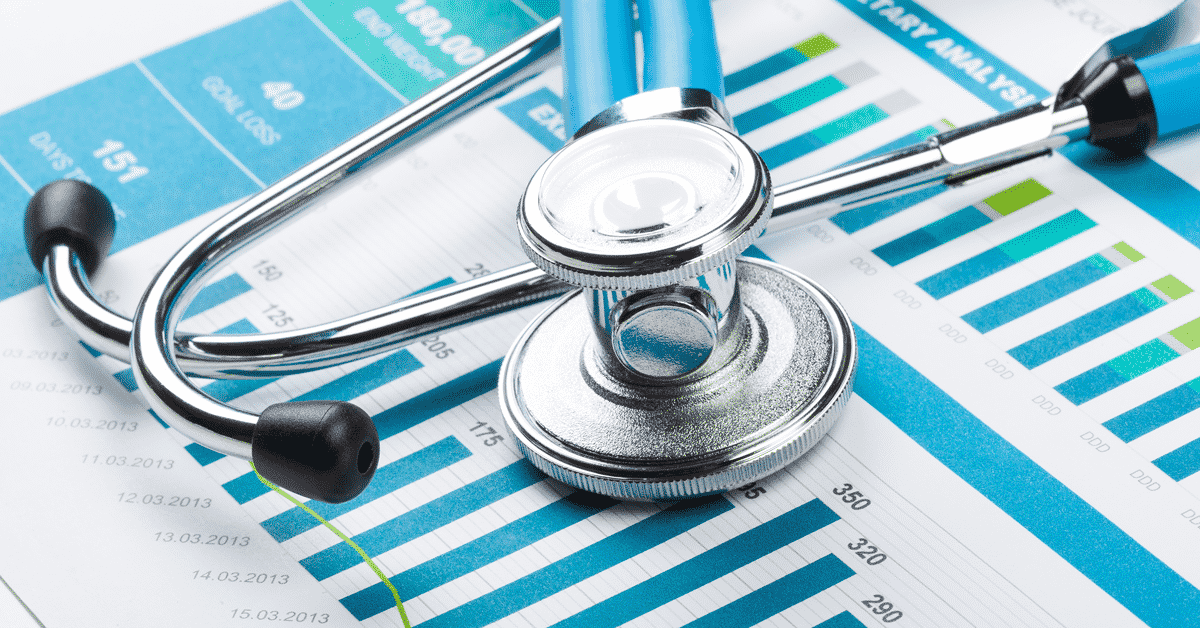
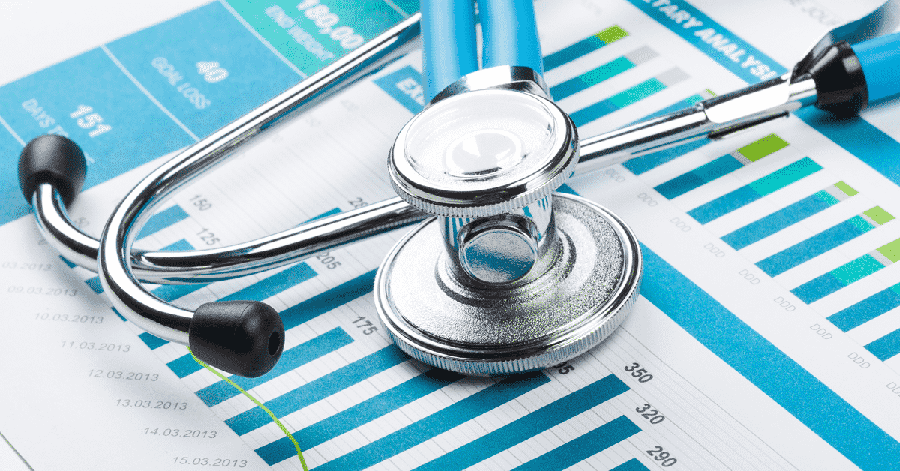
Correzione 04/09/2026: Confronto a 3 voci, immagine su ogni articolo

diff --git a/rassegne/2026-09-04.html b/rassegne/2026-09-04.html
@@ -1523,6 +1523,8 @@
     <a class="badge" href="https://www.borderline24.com" target="_blank" rel="noopener noreferrer">Borderline24</a>
     <a class="badge" href="https://roma.lamilano.it" target="_blank" rel="noopener noreferrer">La Milano</a>
     <a class="badge" href="https://www.veronaoggi.it" target="_blank" rel="noopener noreferrer">VeronaOggi</a>
+    <a class="badge" href="https://www.airwaysmag.com" target="_blank" rel="noopener noreferrer">Airways Magazine</a>
+    <a class="badge" href="https://www.easa.europa.eu" target="_blank" rel="noopener noreferrer">EASA</a>
     <a class="badge" href="https://www.investiremag.it" target="_blank" rel="noopener noreferrer">Investire Oggi</a>
     <a class="badge" href="https://www.idealista.it" target="_blank" rel="noopener noreferrer">Idealista News</a>
     <a class="badge" href="https://blogs.nvidia.com" target="_blank" rel="noopener noreferrer">Nvidia Newsroom</a>
@@ -1646,7 +1648,7 @@
       <div class="sidebar-kicker">Il Contribuente in cifre</div>
       <div class="sidebar-stats">
         <div>
-          <div class="sidebar-stat-value">43</div>
+          <div class="sidebar-stat-value">45</div>
           <div class="sidebar-stat-label">Testate diverse citate solo oggi</div>
         </div>
       </div>
@@ -1674,7 +1676,7 @@
   </div>
 
   <div class="verify-badge">
-    <div class="verify-badge-inner">&#10003; Oggi abbiamo confrontato <strong>60 fonti</strong> su <strong>43 testate</strong> diverse</div>
+    <div class="verify-badge-inner">&#10003; Oggi abbiamo confrontato <strong>62 fonti</strong> su <strong>45 testate</strong> diverse</div>
   </div>
 
   <div class="quote-day">
@@ -1764,6 +1766,18 @@
           <span class="source">Fonte: <a href="https://www.ansa.it/sito/notizie/topnews/2026/09/03/putin-minaccia-di-kiev-ai-voli-civili-complica-possibilita-di-negoziati-di-pace_036c8330-4578-4d12-a105-fdded249f1ab.html" target="_blank" rel="noopener noreferrer">ANSA (Interfax)</a></span>
         </div>
       </div>
+      <div class="duel-grid" style="grid-template-columns:1fr; border-top:1px solid var(--rule);">
+        <div class="duel-side third">
+          <div class="article-image"><img src="../immagini/guerra/brendan-beale-5ehZeIN3n2s-unsplash.jpg" alt="Militare con mascherina in tenuta da sicurezza" loading="lazy"></div>
+          <span class="duel-tag">Voce indipendente — Airways Magazine, EASA</span><div class="duel-headline">Non solo parole: le compagnie aeree cancellano già i voli su Mosca</div>
+          <p class="body">Secondo la rivista specializzata Airways Magazine, l'avvertimento di Zelensky ha già prodotto effetti concreti prima ancora dello scontro verbale con Putin: nella notte tra il 1&deg; e il 2 settembre la turca Pegasus Airlines ha cancellato 12 voli da/per l'aeroporto moscovita di Vnukovo, Turkish Airlines altri quattro, e un volo da Antalya è stato dirottato su Istanbul. Kiev ha inoltre notificato formalmente all'ICAO, l'agenzia Onu per l'aviazione civile, che lo spazio russo è a rischio per il traffico civile.</p>
+          <div class="body-extra">
+            <p class="body">La cautela precede peraltro la dichiarazione ucraina: dal gennaio 2025 l'Easa, l'agenzia europea per la sicurezza aerea, raccomanda di evitare lo spazio russo a ovest del 60&deg; meridiano est per i rischi legati alla guerra. Gli episodi di inizio settembre — 130 droni ucraini abbattuti secondo Mosca tra l'1 e il 2 settembre, con stop temporanei a Vnukovo e Domodedovo — mostrano che il rischio operativo esiste indipendentemente dalle accuse incrociate di "terrorismo di Stato": per vettori e assicuratori contano i dati aeroportuali, non la cornice politica dello scontro tra Kiev e Mosca.</p>
+          </div>
+          <button type="button" class="read-more-btn" onclick="toggleReadMore(this)">Continua a leggere <span class="rm-arrow">&#8595;</span></button>
+          <span class="source">Fonte: <a href="https://www.airwaysmag.com/new-post/pegasus-moscow-flights-russian-airspace-warning" target="_blank" rel="noopener noreferrer">Airways Magazine</a>, <a href="https://www.easa.europa.eu/en/newsroom-and-events/news/eu-aviation-safety-agency-updates-safety-guidance-russian-airspace" target="_blank" rel="noopener noreferrer">EASA</a></span>
+        </div>
+      </div>
     </div>
   </div>
 
@@ -1850,6 +1864,7 @@
         <span class="source">Fonte: <a href="https://www.ansa.it/sito/notizie/mondo/2026/09/02/tajani-possibili-tentativi-dinfluenze-russe-sul-voto-in-italia_b5b916b3-ef32-4b43-8a37-f308d89e2059.html" target="_blank" rel="noopener noreferrer">ANSA</a></span>
       </div>
       <div class="article">
+        <div class="article-image"><img src="../immagini/italia/dmitry-voronov-qjNj5F03dxA-unsplash.jpg" alt="Il Colosseo illuminato di sera, simbolo di Roma" loading="lazy"></div>
         <h3>Inflazione al 3,3% ad agosto, massimo in tre anni: associazioni divise sulla lettura dei dati</h3>
         <p class="body">L'Istat certifica che l'inflazione italiana è salita al 3,3% su base annua ad agosto 2026, dal 2,9% di luglio: il valore più alto degli ultimi tre anni. L'istituto attribuisce l'accelerazione soprattutto ai prezzi dell'energia, passati da +11,6% a +17,0%, mentre il paniere dei beni ad alta frequenza d'acquisto sale al 4,3% dal 3,4% precedente. Il carrello della spesa resta invece stabile, con un incremento dell'1,0%.</p>
         <div class="body-extra">
@@ -2019,6 +2034,7 @@
         <span class="source">Fonte: <a href="https://www.themoscowtimes.com/2026/09/03/russia-can-manage-its-growing-deficit-putin-says-a93630" target="_blank" rel="noopener noreferrer">The Moscow Times</a>, <a href="https://www.brasildefato.com.br/2026/09/03/putin-apresenta-estrategia-economica-da-russia-e-projeta-recorde-comercial-com-a-china/" target="_blank" rel="noopener noreferrer">Brasil de Fato</a></span>
       </div>
       <div class="article">
+        <div class="article-image"><img src="../immagini/mondo/bent-van-aeken-Ztx1R03BlYU-unsplash.jpg" alt="Vista panoramica a effetto 'little planet' su una città costiera" loading="lazy"></div>
         <h3>Repubblicani in ansia: a 60 giorni dal voto saltano la convention di Trump</h3>
         <p class="body">A meno di sessanta giorni dalle elezioni di midterm del 3 novembre, diversi deputati repubblicani eletti in collegi in bilico hanno annunciato che salteranno la convention di partito organizzata da Trump a Dallas il 9 e 10 settembre. Il gradimento del presidente si attesta al 33% secondo un sondaggio Reuters/Ipsos di metà agosto, e diversi parlamentari preferiscono restare nei collegi a fare campagna.</p>
         <div class="body-extra">
@@ -2065,6 +2081,7 @@
         <span class="source">Fonte: <a href="https://www.ansa.it/sito/notizie/topnews/2026/09/03/borsa-milano-tiene-025-corre-lottomatica-soffre-cucinelli_90ea0224-2b53-4f6d-b60e-3eae5d4606e9.html" target="_blank" rel="noopener noreferrer">ANSA</a></span>
       </div>
       <div class="article">
+        <div class="article-image"><img src="../immagini/finanza/brittany-bendabout-MJn7BQNeLnw-unsplash.jpg" alt="Mano che tiene banconote da un dollaro" loading="lazy"></div>
         <h3>Lottomatica e Cirsa si fondono: nasce un colosso da 2 miliardi di Ebitda</h3>
         <p class="body">Lottomatica e Cirsa hanno raggiunto, il 2 settembre, un accordo per una fusione interamente in azioni che darà vita al secondo operatore quotato al mondo nel gioco e nelle scommesse, con un Ebitda pro forma di circa 2 miliardi di euro. Cirsa sarà incorporata in Lottomatica con un rapporto di cambio di 0,668 nuove azioni Lottomatica per ogni titolo Cirsa posseduto. La nuova società sarà quotata sia a Milano sia a Madrid.</p>
         <div class="body-extra">
@@ -2074,6 +2091,7 @@
         <span class="source">Fonte: <a href="https://www.ansa.it/sito/notizie/economia/2026/09/02/lottomatica-raggiunge-accordo-fusione-con-la-spagnola-cirsa_2686dc04-e959-455f-ba80-a74f41c2007f.html" target="_blank" rel="noopener noreferrer">ANSA</a></span>
       </div>
       <div class="article">
+        <div class="article-image"><img src="../immagini/finanza/eduardo-rincon-WYtZz8uSyE4-unsplash.jpg" alt="Schermo con grafico di mercato azionario" loading="lazy"></div>
         <h3>Petrolio stabile sopra i 95 dollari, il gas resta sotto i 73 euro ad Amsterdam</h3>
         <p class="body">Il Brent tratta il 4 settembre a 95,13 dollari al barile, in calo dello 0,52%. Sul mercato del gas, i future TTF di Amsterdam per consegna a ottobre hanno ceduto l'1,1% nella seduta del 3 settembre, scendendo a 72,82 euro al MWh e confermandosi sotto quota 73 euro dopo i massimi sopra i 74 euro dei giorni precedenti.</p>
         <div class="body-extra">
@@ -2108,6 +2126,7 @@
         <span class="source">Fonte: <a href="https://www.eurekalert.org/news-releases/1142162" target="_blank" rel="noopener noreferrer">EurekAlert! / Mass General Brigham</a></span>
       </div>
       <div class="article">
+        <div class="article-image"><img src="../immagini/salute/img_approfondimento_Sanita.webp" alt="Medici con camice e stetoscopio in un corridoio d'ospedale" loading="lazy"></div>
         <h3>Sindrome del cuore infranto o infarto? Un nuovo punteggio le distingue senza cateterismo</h3>
         <p class="body">Un gruppo di ricerca guidato dall'Università di Zurigo ha sviluppato un punteggio diagnostico, chiamato BioTAK, capace di distinguere la sindrome takotsubo (il cosiddetto "cuore infranto") da un vero infarto senza ricorrere alla coronarografia invasiva. Lo studio, pubblicato sull'European Heart Journal e riportato il 2 settembre 2026, ha analizzato dati di oltre 3.600 pazienti per costruire il modello, poi validato su un gruppo indipendente di quasi 1.800 pazienti, classificando correttamente quasi il 90% dei partecipanti.</p>
         <div class="body-extra">
@@ -2117,6 +2136,7 @@
         <span class="source">Fonte: <a href="https://www.sciencedaily.com/releases/2026/09/260901070518.htm" target="_blank" rel="noopener noreferrer">ScienceDaily / Università di Zurigo</a></span>
       </div>
       <div class="article">
+        <div class="article-image"><img src="../immagini/salute/sistema-sanitario-italia-commissione-europea.png" alt="Stetoscopio appoggiato su un grafico di dati" loading="lazy"></div>
         <h3>Più di cinque caffè al giorno associati a minore densità ossea nelle donne anziane, ma senza prova di causalità</h3>
         <p class="body">Uno studio osservazionale della Flinders University, pubblicato sulla rivista Nutrients e ripreso il 2 settembre 2026, ha seguito per dieci anni quasi 10.000 donne australiane over 65. I ricercatori hanno trovato che le donne che bevevano più di cinque tazze di caffè al giorno presentavano una densità ossea inferiore rispetto alle altre, mentre chi beveva tè mostrava valori leggermente più alti. Un consumo moderato, tra due e tre tazze al giorno, non è risultato associato a effetti negativi misurabili.</p>
         <div class="body-extra">
@@ -2162,6 +2182,7 @@
         <span class="source">Fonte: <a href="https://www.adexchanger.com/antitrust/google-wont-have-to-break-up-its-ad-tech-business-judge-brinkema-rules/" target="_blank" rel="noopener noreferrer">AdExchanger</a> e <a href="https://www.smartphonology.it/notizie-tech-3-settembre-meta-accelera-google-evita-lo-scorporo" target="_blank" rel="noopener noreferrer">Smartphonology</a></span>
       </div>
       <div class="article">
+        <div class="article-image"><img src="../immagini/tecnologia/andrew-m--KWZtA2JHW0-unsplash.jpg" alt="Smartphone con app in primo piano" loading="lazy"></div>
         <h3>Tesla svela il Cybercab: robotaxi senza volante a 30mila dollari</h3>
         <p class="body">Tesla ha presentato ufficialmente il 3 settembre ad Austin, in Texas, il Cybercab, il primo veicolo progettato specificamente per il proprio servizio di robotaxi. Il mezzo, a due posti con portiere ad ali di gabbiano, non ha volante né pedali e si affida interamente al sistema di guida autonoma FSD. Elon Musk ha indicato un prezzo obiettivo di circa 30mila dollari, nettamente inferiore a quello dei veicoli usati dal concorrente Waymo, stimati tra 70mila e 150mila dollari.</p>
         <div class="body-extra">
@@ -2228,6 +2249,7 @@
         <span class="source">Fonte: <a href="https://www.theregister.com/ai-and-ml/2026/09/02/with-gemini-38-flash-google-reminds-everyone-its-still-in-the-race/5294049" target="_blank" rel="noopener noreferrer">The Register</a> e <a href="https://www.bloomberg.com/news/articles/2026-09-02/meta-releases-more-powerful-ai-model-edging-closer-to-rivals" target="_blank" rel="noopener noreferrer">Bloomberg</a></span>
       </div>
       <div class="article">
+        <div class="article-image"><img src="../immagini/intelligenza artificiale/8machine-_-LX8e3kgdgAs-unsplash.jpg" alt="Testa robotica incrinata con circuiti luminosi" loading="lazy"></div>
         <h3>Apple accusa un ex ingegnere di aver portato segreti industriali a OpenAI</h3>
         <p class="body">Apple ha rafforzato la causa intentata a luglio contro OpenAI, presentando nuove prove forensi contro Chang Liu, ingegnere che ha lasciato Cupertino per il laboratorio di intelligenza artificiale a gennaio 2026. Secondo la documentazione depositata da Apple, Liu avrebbe scaricato uno schema circuitale riservato e lo avrebbe eseguito all'interno di una simulazione mentre già lavorava per OpenAI, un utilizzo emerso grazie alla sincronizzazione via iCloud tra il suo vecchio Mac mini aziendale e il nuovo MacBook.</p>
         <div class="body-extra">

diff --git a/index.html b/index.html
@@ -1523,6 +1523,8 @@
     <a class="badge" href="https://www.borderline24.com" target="_blank" rel="noopener noreferrer">Borderline24</a>
     <a class="badge" href="https://roma.lamilano.it" target="_blank" rel="noopener noreferrer">La Milano</a>
     <a class="badge" href="https://www.veronaoggi.it" target="_blank" rel="noopener noreferrer">VeronaOggi</a>
+    <a class="badge" href="https://www.airwaysmag.com" target="_blank" rel="noopener noreferrer">Airways Magazine</a>
+    <a class="badge" href="https://www.easa.europa.eu" target="_blank" rel="noopener noreferrer">EASA</a>
     <a class="badge" href="https://www.investiremag.it" target="_blank" rel="noopener noreferrer">Investire Oggi</a>
     <a class="badge" href="https://www.idealista.it" target="_blank" rel="noopener noreferrer">Idealista News</a>
     <a class="badge" href="https://blogs.nvidia.com" target="_blank" rel="noopener noreferrer">Nvidia Newsroom</a>
@@ -1646,7 +1648,7 @@
       <div class="sidebar-kicker">Il Contribuente in cifre</div>
       <div class="sidebar-stats">
         <div>
-          <div class="sidebar-stat-value">43</div>
+          <div class="sidebar-stat-value">45</div>
           <div class="sidebar-stat-label">Testate diverse citate solo oggi</div>
         </div>
       </div>
@@ -1674,7 +1676,7 @@
   </div>
 
   <div class="verify-badge">
-    <div class="verify-badge-inner">&#10003; Oggi abbiamo confrontato <strong>60 fonti</strong> su <strong>43 testate</strong> diverse</div>
+    <div class="verify-badge-inner">&#10003; Oggi abbiamo confrontato <strong>62 fonti</strong> su <strong>45 testate</strong> diverse</div>
   </div>
 
   <div class="quote-day">
@@ -1764,6 +1766,18 @@
           <span class="source">Fonte: <a href="https://www.ansa.it/sito/notizie/topnews/2026/09/03/putin-minaccia-di-kiev-ai-voli-civili-complica-possibilita-di-negoziati-di-pace_036c8330-4578-4d12-a105-fdded249f1ab.html" target="_blank" rel="noopener noreferrer">ANSA (Interfax)</a></span>
         </div>
       </div>
+      <div class="duel-grid" style="grid-template-columns:1fr; border-top:1px solid var(--rule);">
+        <div class="duel-side third">
+          <div class="article-image"><img src="immagini/guerra/brendan-beale-5ehZeIN3n2s-unsplash.jpg" alt="Militare con mascherina in tenuta da sicurezza" loading="lazy"></div>
+          <span class="duel-tag">Voce indipendente — Airways Magazine, EASA</span><div class="duel-headline">Non solo parole: le compagnie aeree cancellano già i voli su Mosca</div>
+          <p class="body">Secondo la rivista specializzata Airways Magazine, l'avvertimento di Zelensky ha già prodotto effetti concreti prima ancora dello scontro verbale con Putin: nella notte tra il 1&deg; e il 2 settembre la turca Pegasus Airlines ha cancellato 12 voli da/per l'aeroporto moscovita di Vnukovo, Turkish Airlines altri quattro, e un volo da Antalya è stato dirottato su Istanbul. Kiev ha inoltre notificato formalmente all'ICAO, l'agenzia Onu per l'aviazione civile, che lo spazio russo è a rischio per il traffico civile.</p>
+          <div class="body-extra">
+            <p class="body">La cautela precede peraltro la dichiarazione ucraina: dal gennaio 2025 l'Easa, l'agenzia europea per la sicurezza aerea, raccomanda di evitare lo spazio russo a ovest del 60&deg; meridiano est per i rischi legati alla guerra. Gli episodi di inizio settembre — 130 droni ucraini abbattuti secondo Mosca tra l'1 e il 2 settembre, con stop temporanei a Vnukovo e Domodedovo — mostrano che il rischio operativo esiste indipendentemente dalle accuse incrociate di "terrorismo di Stato": per vettori e assicuratori contano i dati aeroportuali, non la cornice politica dello scontro tra Kiev e Mosca.</p>
+          </div>
+          <button type="button" class="read-more-btn" onclick="toggleReadMore(this)">Continua a leggere <span class="rm-arrow">&#8595;</span></button>
+          <span class="source">Fonte: <a href="https://www.airwaysmag.com/new-post/pegasus-moscow-flights-russian-airspace-warning" target="_blank" rel="noopener noreferrer">Airways Magazine</a>, <a href="https://www.easa.europa.eu/en/newsroom-and-events/news/eu-aviation-safety-agency-updates-safety-guidance-russian-airspace" target="_blank" rel="noopener noreferrer">EASA</a></span>
+        </div>
+      </div>
     </div>
   </div>
 
@@ -1850,6 +1864,7 @@
         <span class="source">Fonte: <a href="https://www.ansa.it/sito/notizie/mondo/2026/09/02/tajani-possibili-tentativi-dinfluenze-russe-sul-voto-in-italia_b5b916b3-ef32-4b43-8a37-f308d89e2059.html" target="_blank" rel="noopener noreferrer">ANSA</a></span>
       </div>
       <div class="article">
+        <div class="article-image"><img src="immagini/italia/dmitry-voronov-qjNj5F03dxA-unsplash.jpg" alt="Il Colosseo illuminato di sera, simbolo di Roma" loading="lazy"></div>
         <h3>Inflazione al 3,3% ad agosto, massimo in tre anni: associazioni divise sulla lettura dei dati</h3>
         <p class="body">L'Istat certifica che l'inflazione italiana è salita al 3,3% su base annua ad agosto 2026, dal 2,9% di luglio: il valore più alto degli ultimi tre anni. L'istituto attribuisce l'accelerazione soprattutto ai prezzi dell'energia, passati da +11,6% a +17,0%, mentre il paniere dei beni ad alta frequenza d'acquisto sale al 4,3% dal 3,4% precedente. Il carrello della spesa resta invece stabile, con un incremento dell'1,0%.</p>
         <div class="body-extra">
@@ -2019,6 +2034,7 @@
         <span class="source">Fonte: <a href="https://www.themoscowtimes.com/2026/09/03/russia-can-manage-its-growing-deficit-putin-says-a93630" target="_blank" rel="noopener noreferrer">The Moscow Times</a>, <a href="https://www.brasildefato.com.br/2026/09/03/putin-apresenta-estrategia-economica-da-russia-e-projeta-recorde-comercial-com-a-china/" target="_blank" rel="noopener noreferrer">Brasil de Fato</a></span>
       </div>
       <div class="article">
+        <div class="article-image"><img src="immagini/mondo/bent-van-aeken-Ztx1R03BlYU-unsplash.jpg" alt="Vista panoramica a effetto 'little planet' su una città costiera" loading="lazy"></div>
         <h3>Repubblicani in ansia: a 60 giorni dal voto saltano la convention di Trump</h3>
         <p class="body">A meno di sessanta giorni dalle elezioni di midterm del 3 novembre, diversi deputati repubblicani eletti in collegi in bilico hanno annunciato che salteranno la convention di partito organizzata da Trump a Dallas il 9 e 10 settembre. Il gradimento del presidente si attesta al 33% secondo un sondaggio Reuters/Ipsos di metà agosto, e diversi parlamentari preferiscono restare nei collegi a fare campagna.</p>
         <div class="body-extra">
@@ -2065,6 +2081,7 @@
         <span class="source">Fonte: <a href="https://www.ansa.it/sito/notizie/topnews/2026/09/03/borsa-milano-tiene-025-corre-lottomatica-soffre-cucinelli_90ea0224-2b53-4f6d-b60e-3eae5d4606e9.html" target="_blank" rel="noopener noreferrer">ANSA</a></span>
       </div>
       <div class="article">
+        <div class="article-image"><img src="immagini/finanza/brittany-bendabout-MJn7BQNeLnw-unsplash.jpg" alt="Mano che tiene banconote da un dollaro" loading="lazy"></div>
         <h3>Lottomatica e Cirsa si fondono: nasce un colosso da 2 miliardi di Ebitda</h3>
         <p class="body">Lottomatica e Cirsa hanno raggiunto, il 2 settembre, un accordo per una fusione interamente in azioni che darà vita al secondo operatore quotato al mondo nel gioco e nelle scommesse, con un Ebitda pro forma di circa 2 miliardi di euro. Cirsa sarà incorporata in Lottomatica con un rapporto di cambio di 0,668 nuove azioni Lottomatica per ogni titolo Cirsa posseduto. La nuova società sarà quotata sia a Milano sia a Madrid.</p>
         <div class="body-extra">
@@ -2074,6 +2091,7 @@
         <span class="source">Fonte: <a href="https://www.ansa.it/sito/notizie/economia/2026/09/02/lottomatica-raggiunge-accordo-fusione-con-la-spagnola-cirsa_2686dc04-e959-455f-ba80-a74f41c2007f.html" target="_blank" rel="noopener noreferrer">ANSA</a></span>
       </div>
       <div class="article">
+        <div class="article-image"><img src="immagini/finanza/eduardo-rincon-WYtZz8uSyE4-unsplash.jpg" alt="Schermo con grafico di mercato azionario" loading="lazy"></div>
         <h3>Petrolio stabile sopra i 95 dollari, il gas resta sotto i 73 euro ad Amsterdam</h3>
         <p class="body">Il Brent tratta il 4 settembre a 95,13 dollari al barile, in calo dello 0,52%. Sul mercato del gas, i future TTF di Amsterdam per consegna a ottobre hanno ceduto l'1,1% nella seduta del 3 settembre, scendendo a 72,82 euro al MWh e confermandosi sotto quota 73 euro dopo i massimi sopra i 74 euro dei giorni precedenti.</p>
         <div class="body-extra">
@@ -2108,6 +2126,7 @@
         <span class="source">Fonte: <a href="https://www.eurekalert.org/news-releases/1142162" target="_blank" rel="noopener noreferrer">EurekAlert! / Mass General Brigham</a></span>
       </div>
       <div class="article">
+        <div class="article-image"><img src="immagini/salute/img_approfondimento_Sanita.webp" alt="Medici con camice e stetoscopio in un corridoio d'ospedale" loading="lazy"></div>
         <h3>Sindrome del cuore infranto o infarto? Un nuovo punteggio le distingue senza cateterismo</h3>
         <p class="body">Un gruppo di ricerca guidato dall'Università di Zurigo ha sviluppato un punteggio diagnostico, chiamato BioTAK, capace di distinguere la sindrome takotsubo (il cosiddetto "cuore infranto") da un vero infarto senza ricorrere alla coronarografia invasiva. Lo studio, pubblicato sull'European Heart Journal e riportato il 2 settembre 2026, ha analizzato dati di oltre 3.600 pazienti per costruire il modello, poi validato su un gruppo indipendente di quasi 1.800 pazienti, classificando correttamente quasi il 90% dei partecipanti.</p>
         <div class="body-extra">
@@ -2117,6 +2136,7 @@
         <span class="source">Fonte: <a href="https://www.sciencedaily.com/releases/2026/09/260901070518.htm" target="_blank" rel="noopener noreferrer">ScienceDaily / Università di Zurigo</a></span>
       </div>
       <div class="article">
+        <div class="article-image"><img src="immagini/salute/sistema-sanitario-italia-commissione-europea.png" alt="Stetoscopio appoggiato su un grafico di dati" loading="lazy"></div>
         <h3>Più di cinque caffè al giorno associati a minore densità ossea nelle donne anziane, ma senza prova di causalità</h3>
         <p class="body">Uno studio osservazionale della Flinders University, pubblicato sulla rivista Nutrients e ripreso il 2 settembre 2026, ha seguito per dieci anni quasi 10.000 donne australiane over 65. I ricercatori hanno trovato che le donne che bevevano più di cinque tazze di caffè al giorno presentavano una densità ossea inferiore rispetto alle altre, mentre chi beveva tè mostrava valori leggermente più alti. Un consumo moderato, tra due e tre tazze al giorno, non è risultato associato a effetti negativi misurabili.</p>
         <div class="body-extra">
@@ -2162,6 +2182,7 @@
         <span class="source">Fonte: <a href="https://www.adexchanger.com/antitrust/google-wont-have-to-break-up-its-ad-tech-business-judge-brinkema-rules/" target="_blank" rel="noopener noreferrer">AdExchanger</a> e <a href="https://www.smartphonology.it/notizie-tech-3-settembre-meta-accelera-google-evita-lo-scorporo" target="_blank" rel="noopener noreferrer">Smartphonology</a></span>
       </div>
       <div class="article">
+        <div class="article-image"><img src="immagini/tecnologia/andrew-m--KWZtA2JHW0-unsplash.jpg" alt="Smartphone con app in primo piano" loading="lazy"></div>
         <h3>Tesla svela il Cybercab: robotaxi senza volante a 30mila dollari</h3>
         <p class="body">Tesla ha presentato ufficialmente il 3 settembre ad Austin, in Texas, il Cybercab, il primo veicolo progettato specificamente per il proprio servizio di robotaxi. Il mezzo, a due posti con portiere ad ali di gabbiano, non ha volante né pedali e si affida interamente al sistema di guida autonoma FSD. Elon Musk ha indicato un prezzo obiettivo di circa 30mila dollari, nettamente inferiore a quello dei veicoli usati dal concorrente Waymo, stimati tra 70mila e 150mila dollari.</p>
         <div class="body-extra">
@@ -2228,6 +2249,7 @@
         <span class="source">Fonte: <a href="https://www.theregister.com/ai-and-ml/2026/09/02/with-gemini-38-flash-google-reminds-everyone-its-still-in-the-race/5294049" target="_blank" rel="noopener noreferrer">The Register</a> e <a href="https://www.bloomberg.com/news/articles/2026-09-02/meta-releases-more-powerful-ai-model-edging-closer-to-rivals" target="_blank" rel="noopener noreferrer">Bloomberg</a></span>
       </div>
       <div class="article">
+        <div class="article-image"><img src="immagini/intelligenza artificiale/8machine-_-LX8e3kgdgAs-unsplash.jpg" alt="Testa robotica incrinata con circuiti luminosi" loading="lazy"></div>
         <h3>Apple accusa un ex ingegnere di aver portato segreti industriali a OpenAI</h3>
         <p class="body">Apple ha rafforzato la causa intentata a luglio contro OpenAI, presentando nuove prove forensi contro Chang Liu, ingegnere che ha lasciato Cupertino per il laboratorio di intelligenza artificiale a gennaio 2026. Secondo la documentazione depositata da Apple, Liu avrebbe scaricato uno schema circuitale riservato e lo avrebbe eseguito all'interno di una simulazione mentre già lavorava per OpenAI, un utilizzo emerso grazie alla sincronizzazione via iCloud tra il suo vecchio Mac mini aziendale e il nuovo MacBook.</p>
         <div class="body-extra">
